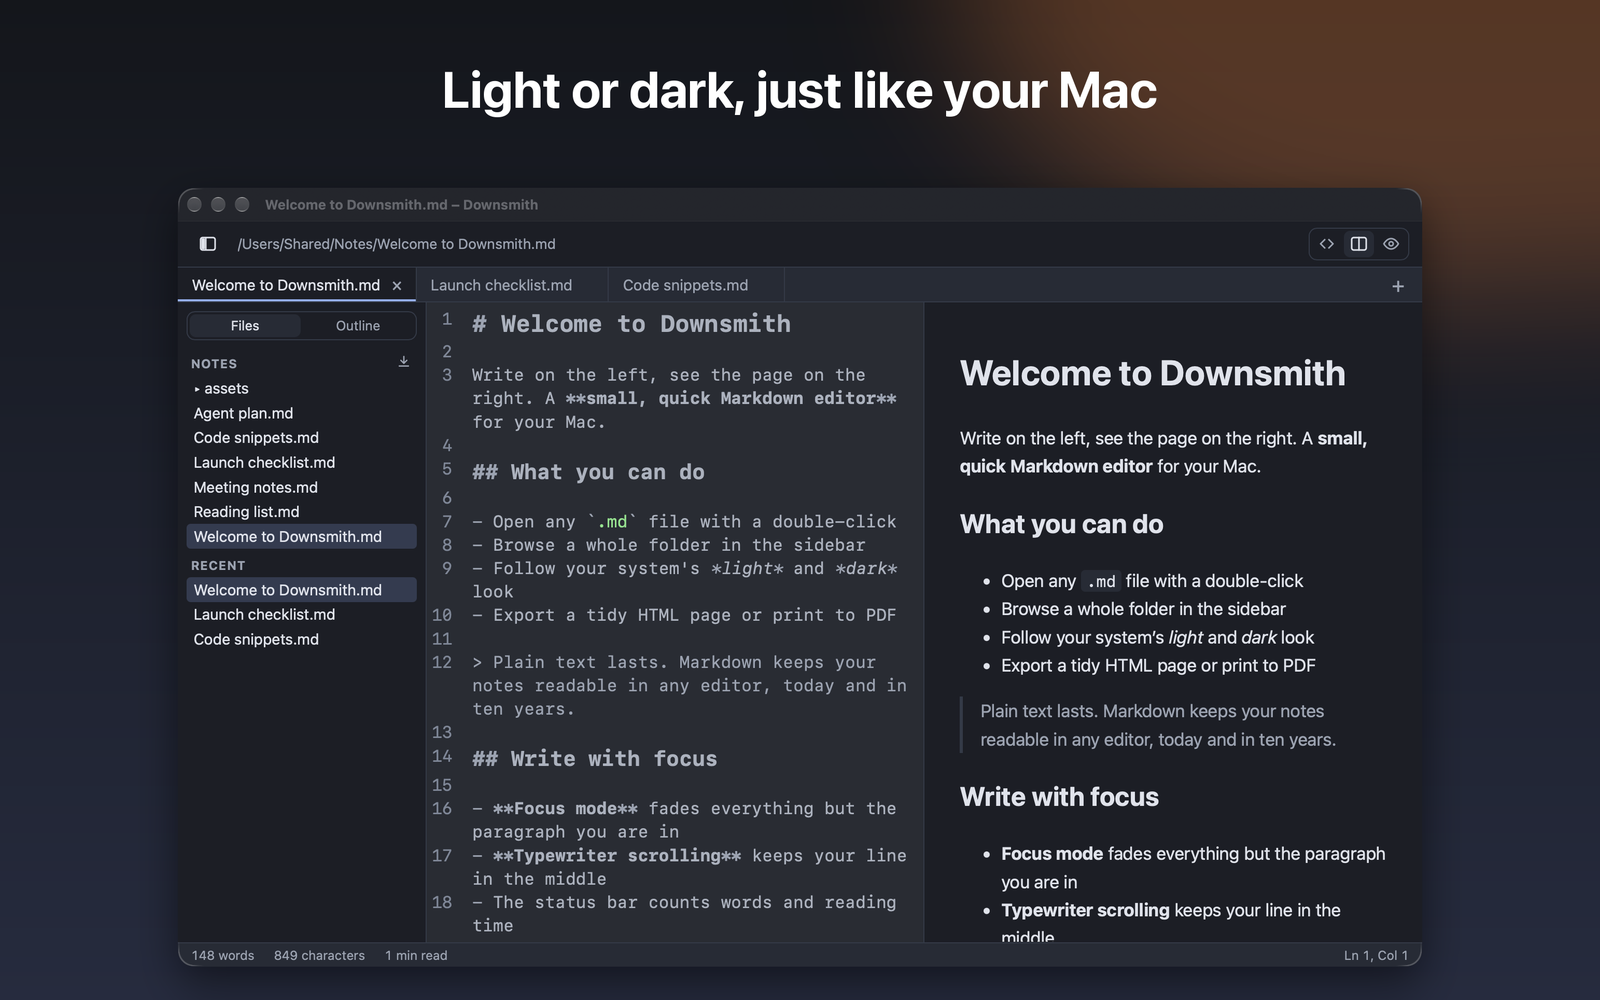
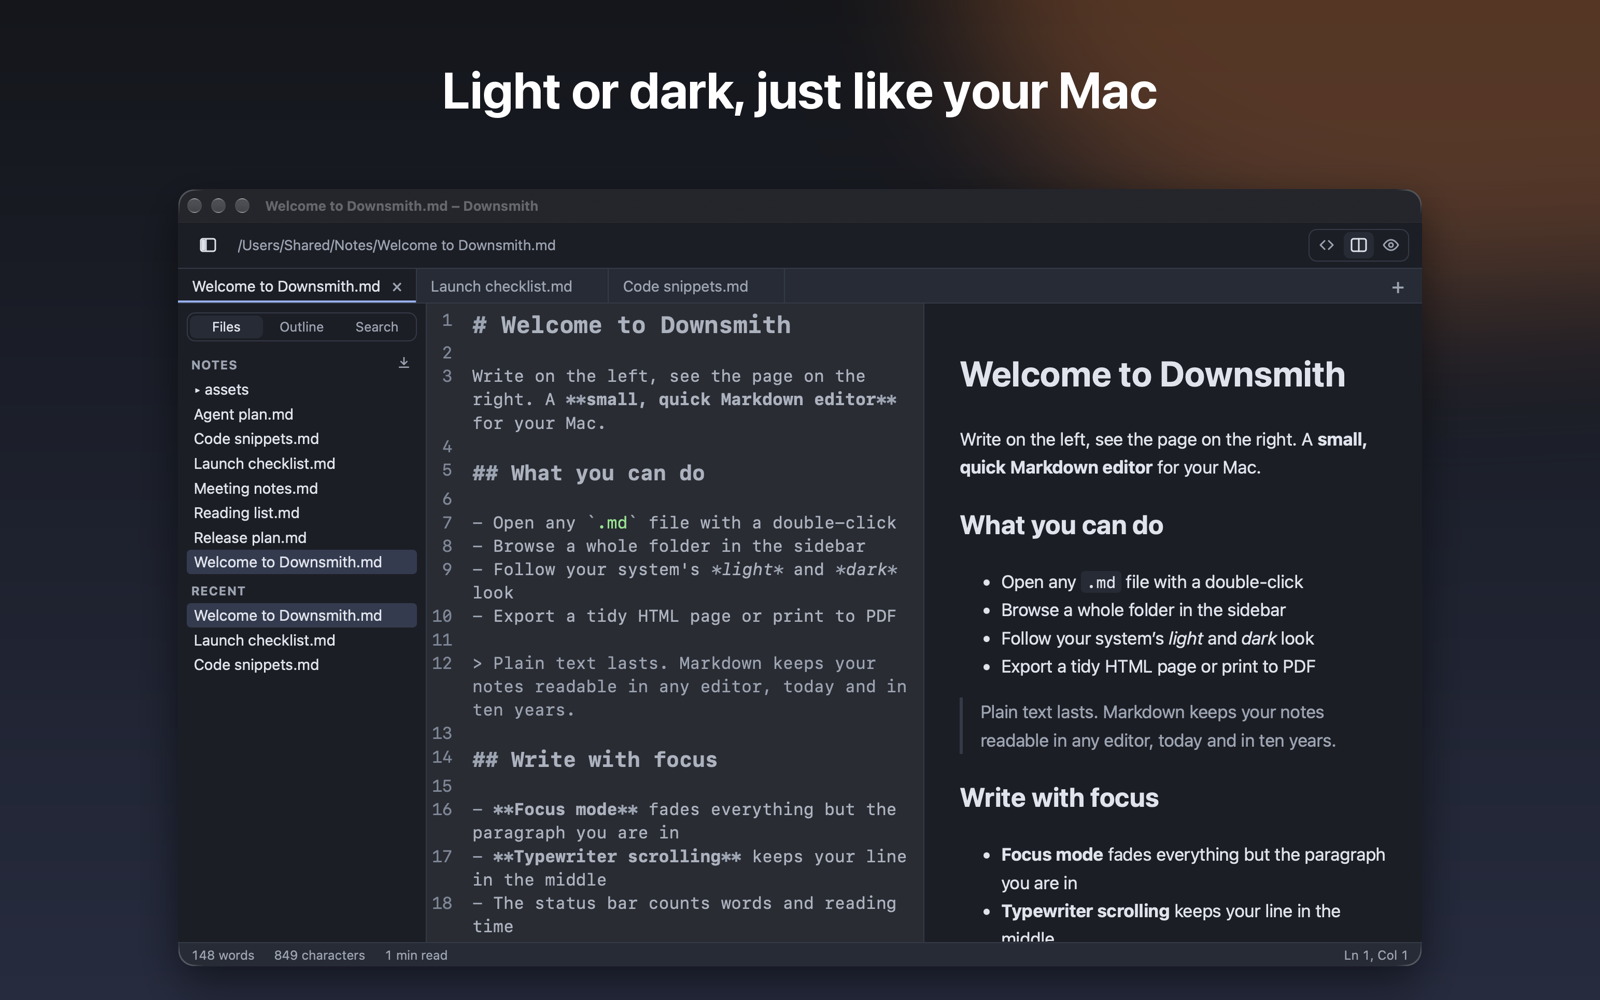
docs: update README

diff --git a/README.md b/README.md
@@ -33,15 +33,16 @@
 ## Why Downsmith
 
 - **Built for AI agents.** Coding agents write plans, specs and notes as Markdown. Downsmith follows the file as the agent rewrites it and marks what changed, in the source and in the preview, with *Next change* and *Seen*. It can also follow the newest Markdown file of a folder. Downsmith itself has no AI and sends nothing anywhere.
+- **Diagrams and math.** Mermaid code blocks are drawn as diagrams (flowcharts, sequence, class, state, Gantt …) and formulas in `$…$` or `$$…$$` are typeset, in light and dark, offline. The HTML export keeps them.
 - **Images.** Local images (also SVG) show in the preview. Paste a screenshot or drop an image into the editor and it is copied into an `assets` folder next to the document. Images from the web are not loaded.
 - **Live preview.** Source on the left, rendered page on the right, scrolling together. Tables, task lists you can tick off, footnotes, note boxes and code blocks with syntax highlighting.
 - **Write.** Bold, italic, links and headings from the Format menu. Focus mode fades everything but the current paragraph, typewriter scrolling keeps your line in the middle, and a status bar counts words and reading time.
-- **Find and jump.** Search and replace, and an outline of your headings in the sidebar.
+- **Find and jump.** Search and replace, search every Markdown file of a folder (`⇧⌘F`) with a click to the hit, a command palette (`⇧⌘P`) for any command or file, and an outline of your headings in the sidebar.
 - **Always up to date.** When another program changes an open file, Downsmith shows the new text (and asks first if you have unsaved edits). Drop files or a folder on the window to open them.
 - **Tabs.** Open several files at once, each with its own undo history. Your tabs come back at the next start, and closing with unsaved changes asks Save, Don't Save or Cancel.
 - **Your view.** Show only the source, only the preview or both side by side. Hide the sidebar and drag the dividers to resize the columns. Downsmith remembers your layout.
 - **Folders and recent files.** Open a folder, browse its Markdown files in a sidebar and jump back to what you edited last.
-- **Native.** The real menu bar with the shortcuts you know, in English or German. It uses the system web view instead of shipping a browser, so the macOS app is about 10 MB.
+- **Native.** The real menu bar with the shortcuts you know, in English or German. It uses the system web view instead of shipping a browser, so the macOS download is about 13 MB, diagrams and math included.
 - **Light and dark.** Editor, preview and export follow your system appearance.
 - **Export.** Save a self-contained HTML page, or print to PDF through the system dialog.
 - **Private.** It works offline and sends nothing anywhere. Your documents stay on your computer.
@@ -59,11 +60,15 @@
   </tr>
   <tr>
     <td width="50%"><img src="img/06-folders.png" alt="A folder of notes in the sidebar"></td>
-    <td width="50%"><img src="img/07-views.png" alt="Only the preview, with the source and both-panes buttons in the toolbar"></td>
+    <td width="50%"><img src="img/07-command-palette.png" alt="The command palette with open notes and menu commands with their shortcuts"></td>
   </tr>
   <tr>
     <td width="50%"><img src="img/08-outline.png" alt="The outline of a note in the sidebar"></td>
     <td width="50%"><img src="img/01-write-and-preview.png" alt="Several notes in tabs, source on the left and preview on the right"></td>
+  </tr>
+  <tr>
+    <td width="50%"><img src="img/09-diagrams.png" alt="A Mermaid flowchart and math formulas drawn in the preview"></td>
+    <td width="50%"><img src="img/10-find-in-folder.png" alt="Search in all notes of a folder, the hits listed file by file in the sidebar"></td>
   </tr>
 </table>
 
@@ -118,10 +123,12 @@ The packages need WebKitGTK 4.1 (`libwebkit2gtk-4.1`). The Linux builds are new 
 | Larger / smaller / actual text size | `⌘+` / `⌘-` / `⌘0` | `Ctrl+` / `Ctrl-` / `Ctrl+0` |
 | Find / next / previous | `⌘F` / `⌘G` / `⇧⌘G` | `Ctrl+F` / `Ctrl+G` / `Ctrl+Shift+G` |
 | Find and replace | `⌥⌘F` | `Ctrl+Alt+F` |
+| Find in folder | `⇧⌘F` | `Ctrl+Shift+F` |
+| Command palette | `⇧⌘P` | `Ctrl+Shift+P` |
 | Bold / italic / link | `⌘B` / `⌘I` / `⌘K` | `Ctrl+B` / `Ctrl+I` / `Ctrl+K` |
 | Inline code / strikethrough | `⌘E` / `⇧⌘X` | `Ctrl+E` / `Ctrl+Shift+X` |
 | Heading 1 / 2 / 3 | `⌘1` / `⌘2` / `⌘3` | `Ctrl+1` / `2` / `3` |
-| Focus mode / typewriter scrolling | `⇧⌘F` / `⌥⌘T` | `Ctrl+Shift+F` / `Ctrl+Alt+T` |
+| Focus mode / typewriter scrolling | `⇧⌘D` / `⌥⌘T` | `Ctrl+Shift+D` / `Ctrl+Alt+T` |
 | Status bar | `⌘/` | `Ctrl+/` |
 | Show outline / show files | `⌥⌘O` / `⌥⌘L` | `Ctrl+Alt+O` / `Ctrl+Alt+L` |
 | Next / previous change | `⌥⌘↓` / `⌥⌘↑` | `Ctrl+Alt+Down` / `Ctrl+Alt+Up` |
